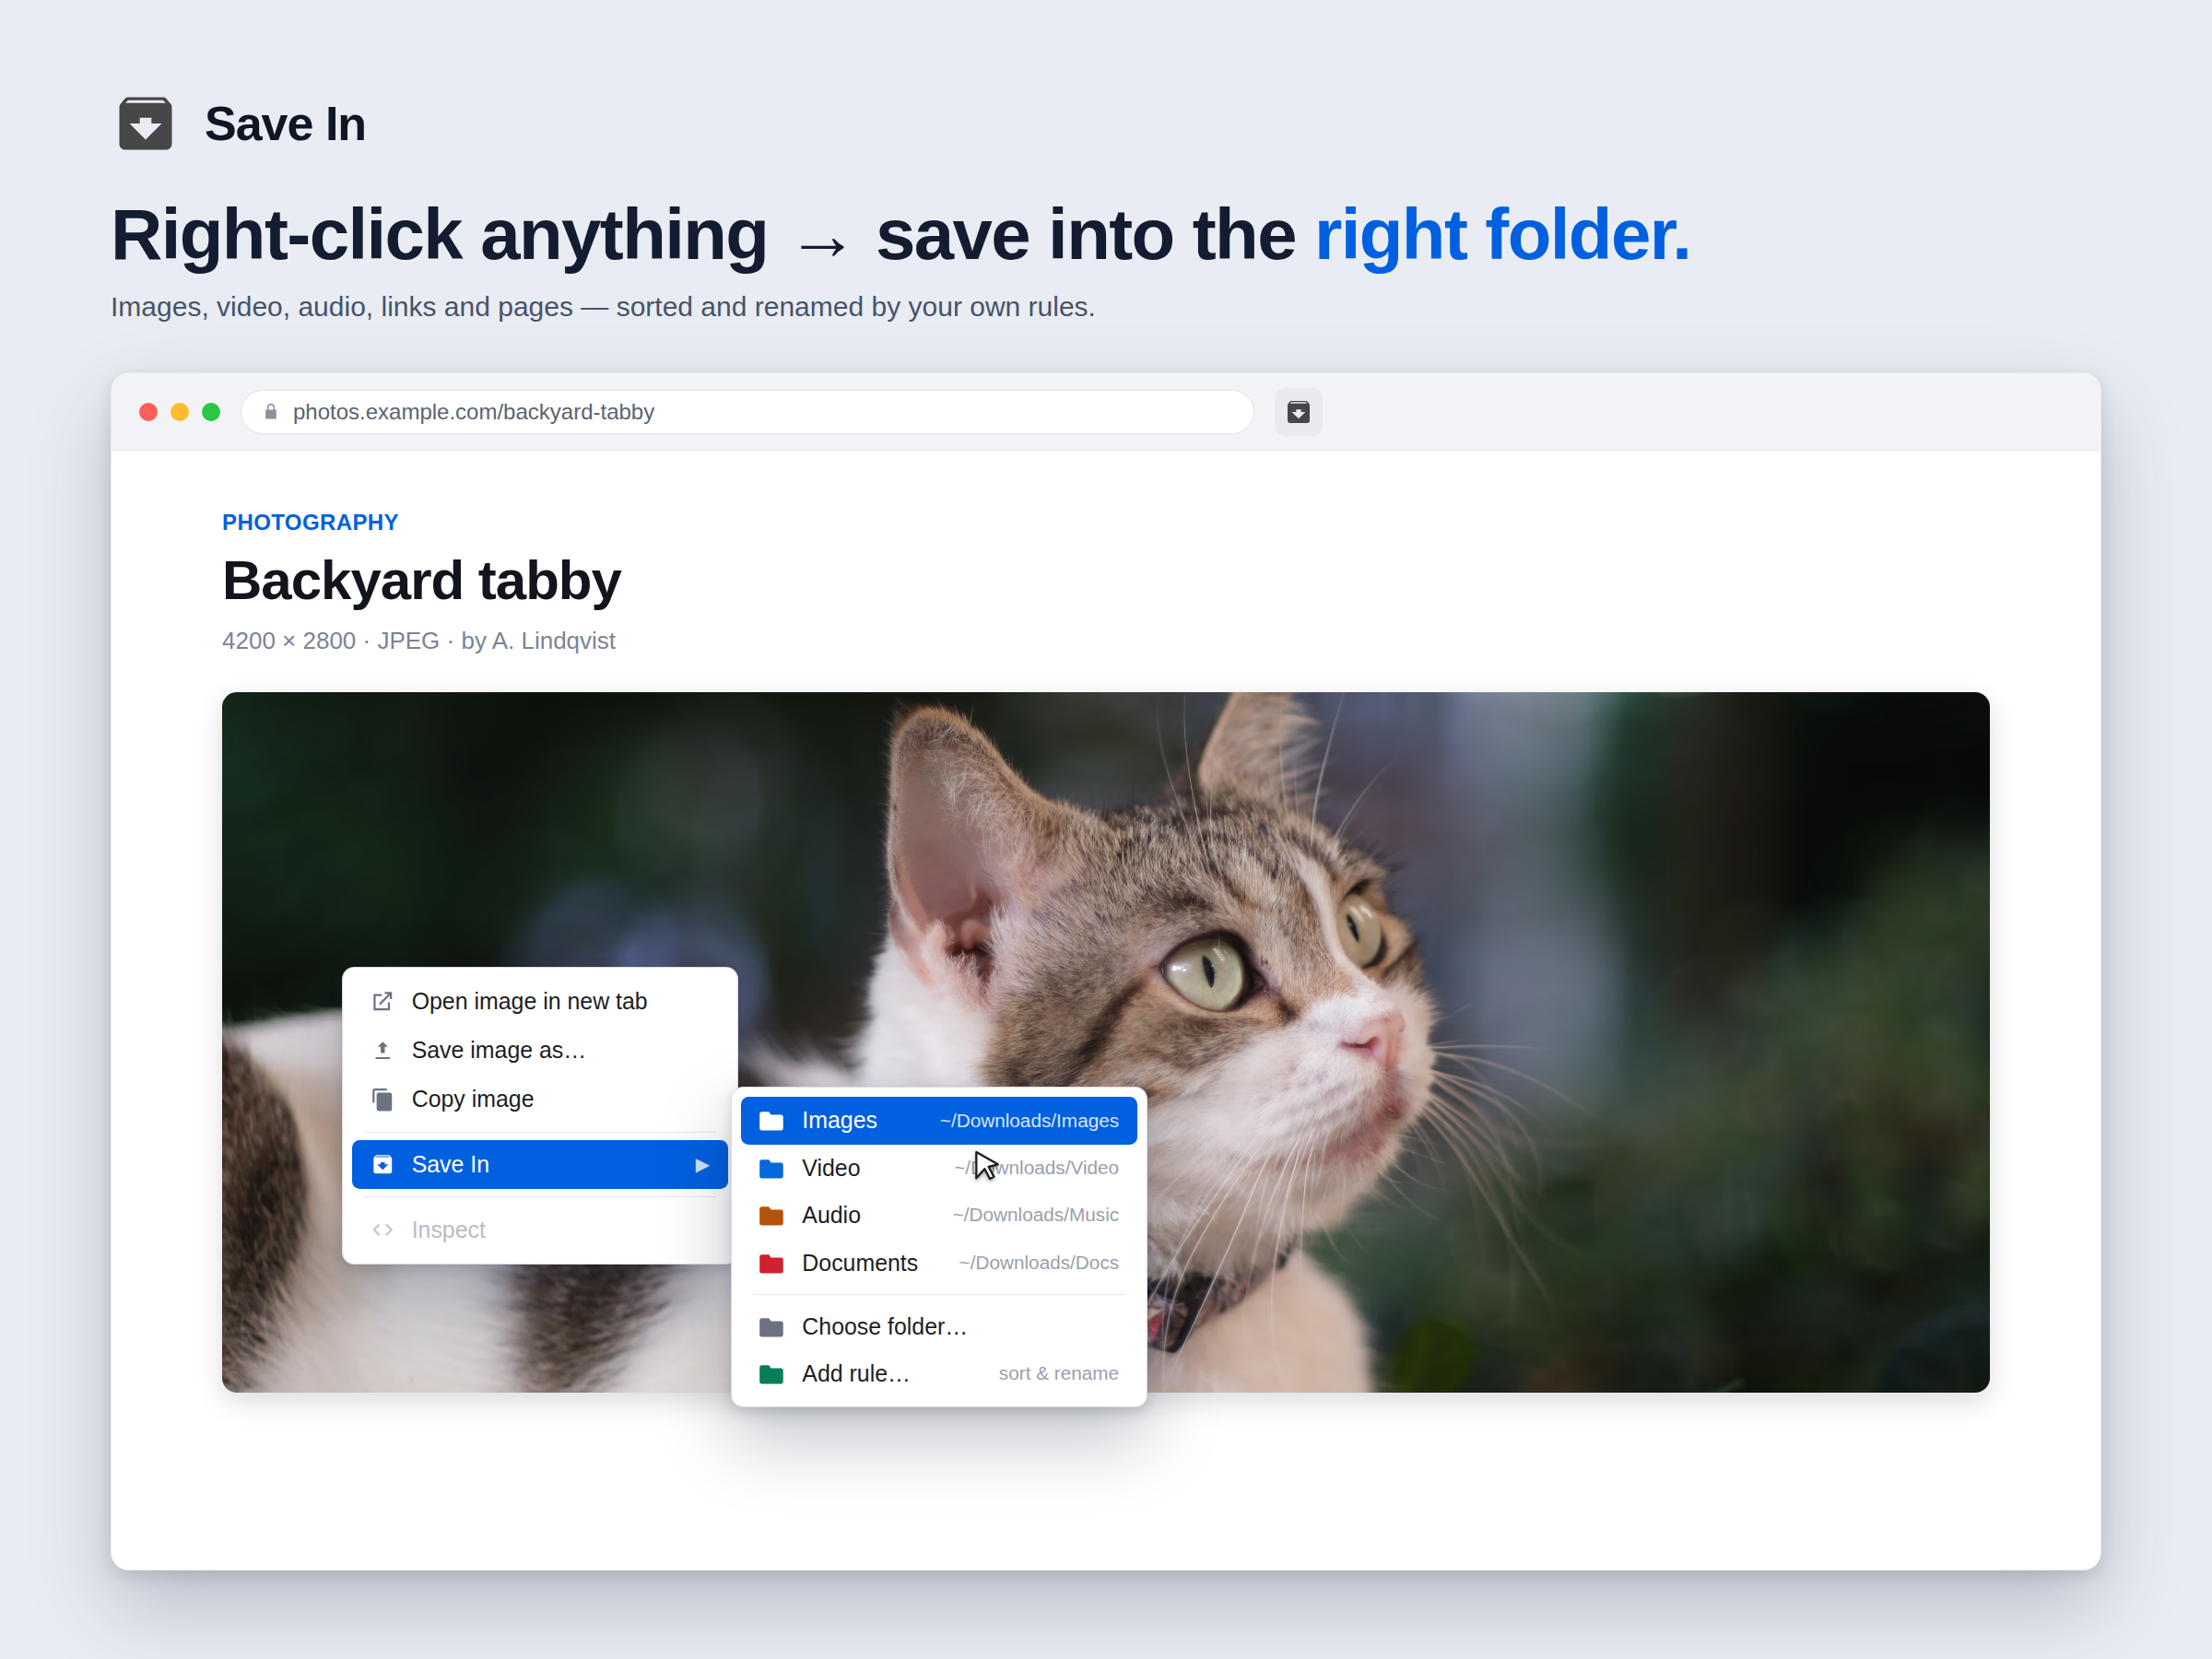
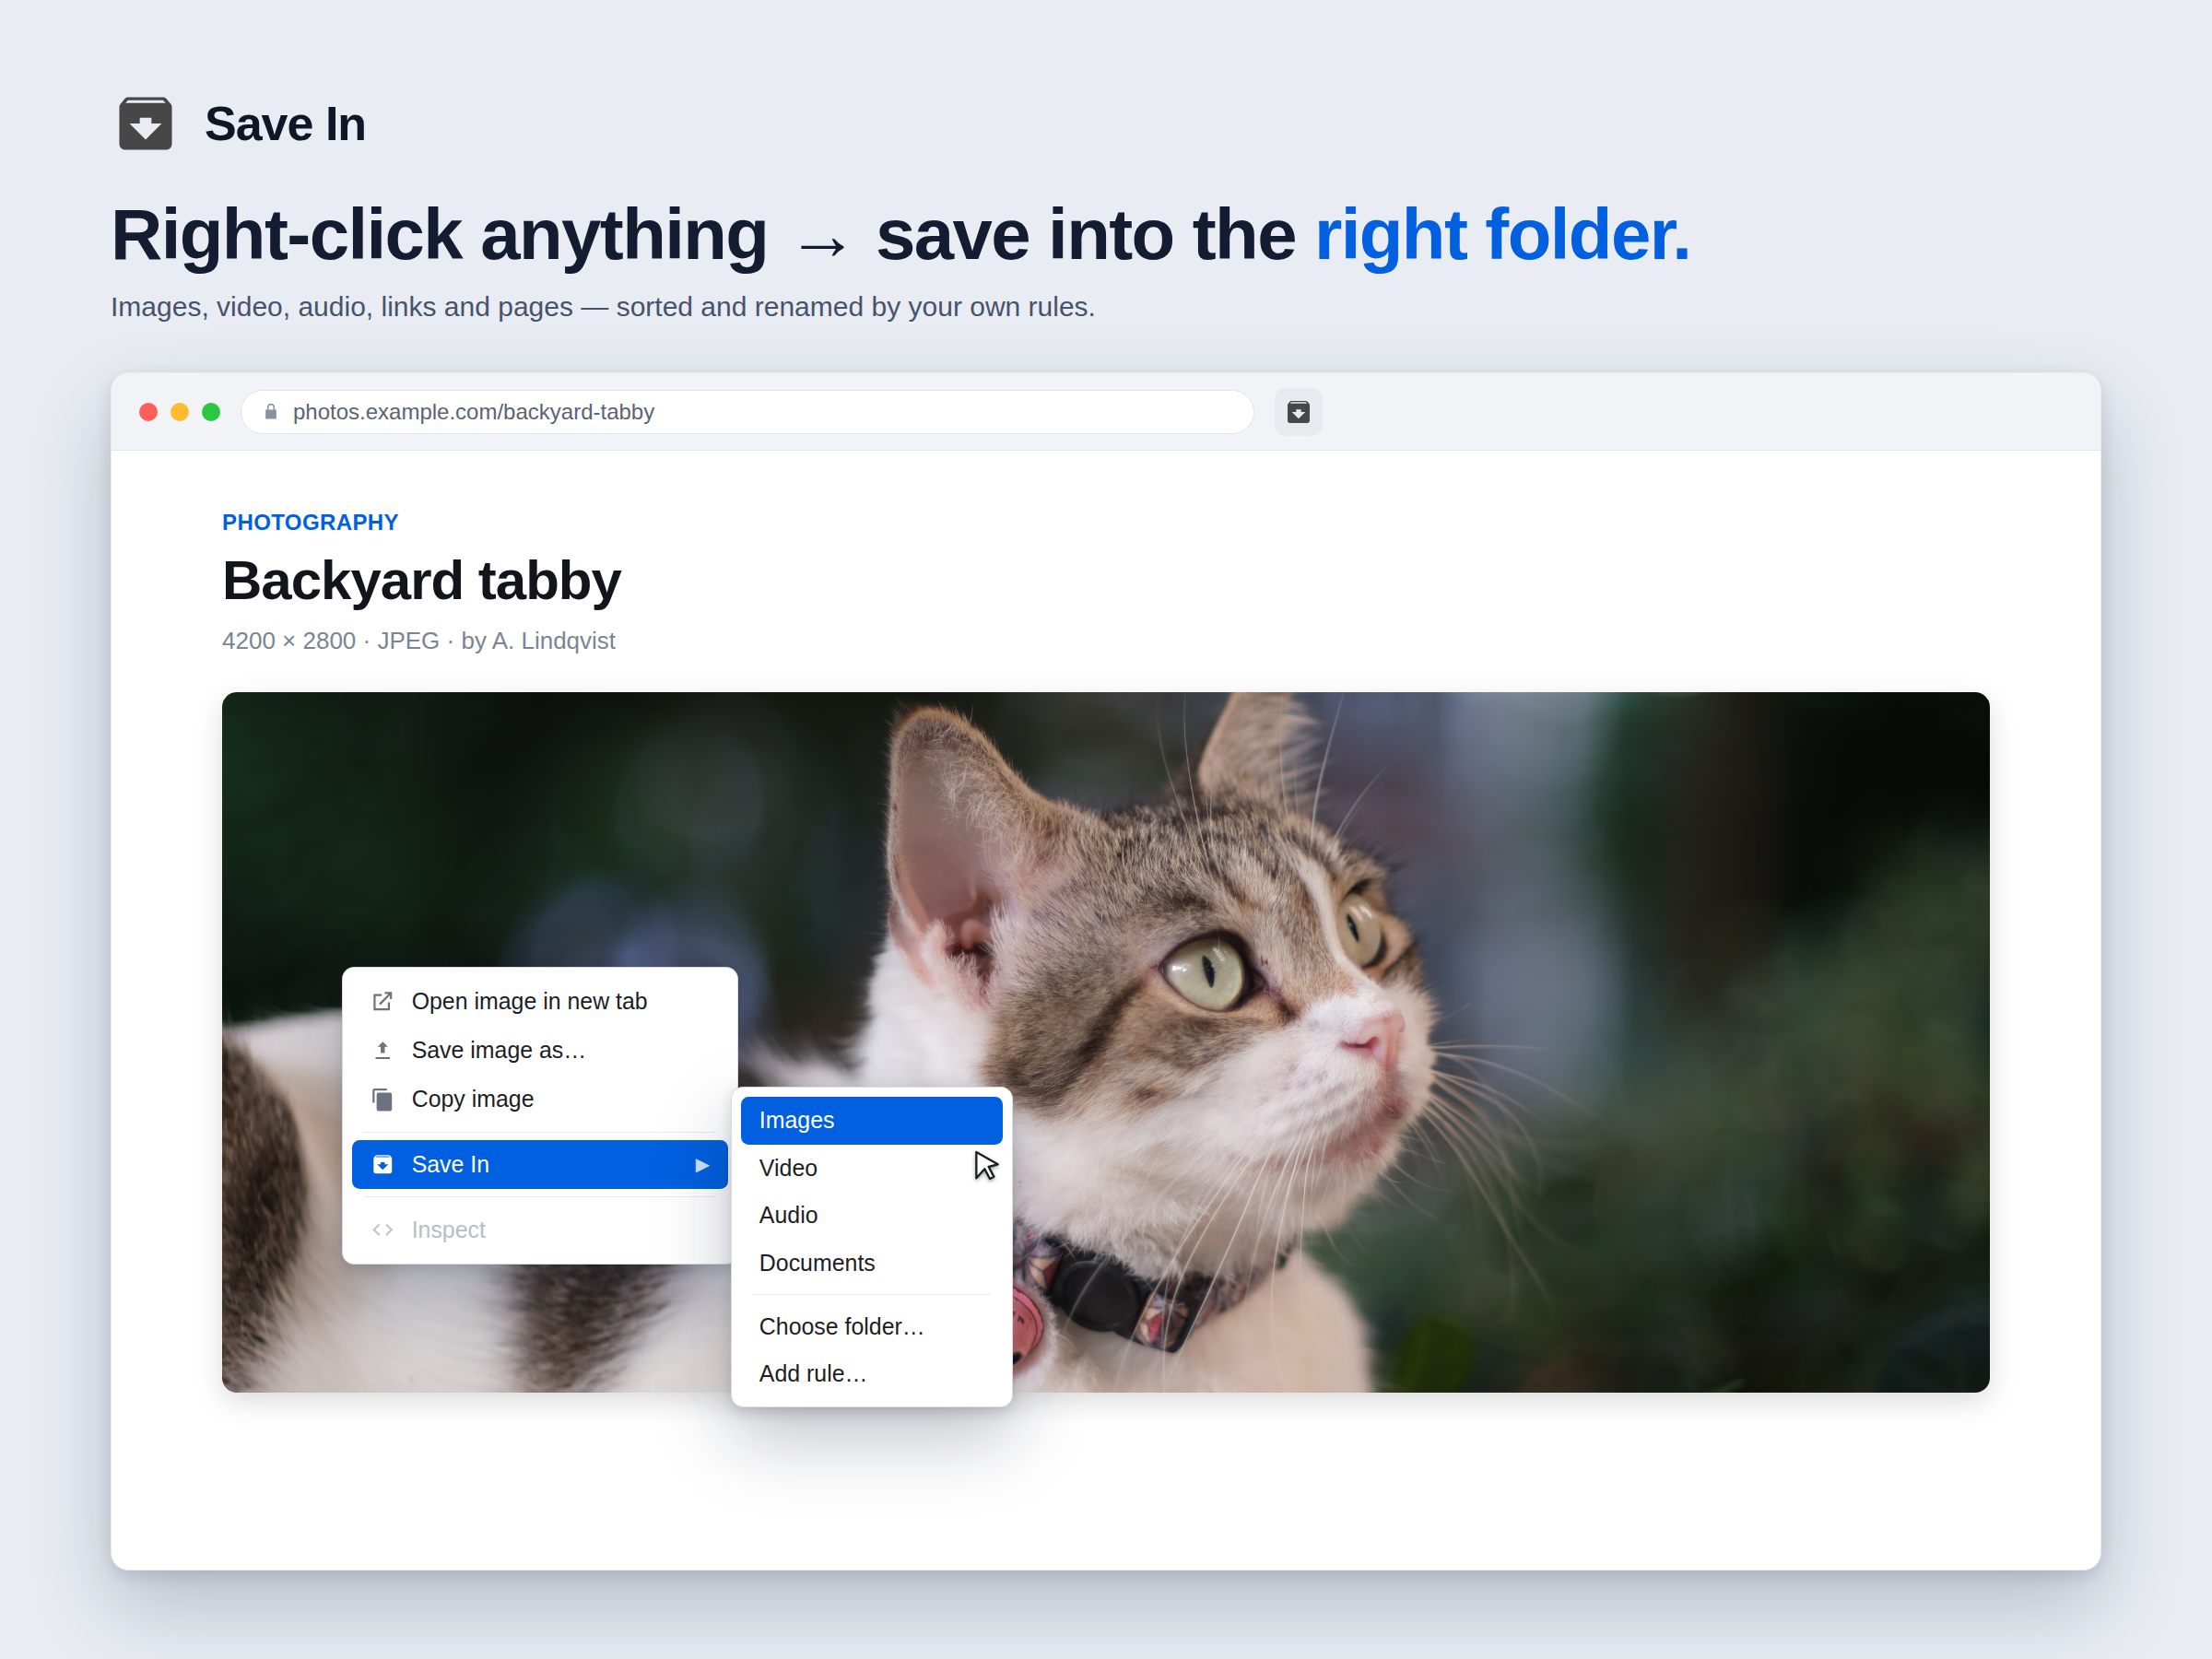
Draw the Save In submenu as plain folder names
Drop the invented folder icons and destination paths from the shared
context-menu art so the mock submenu matches a real Save In menu, which
lists configured folder names as plain items. Narrow the submenu boxes to
the shorter labels and regenerate the promo marquee and hero.

Changed region(s): [[0.3438, 0.6533, 0.5312, 0.8711]]

diff --git a/scripts/lib/context-menu-art.js b/scripts/lib/context-menu-art.js
@@ -35,10 +35,6 @@ const GLYPH = (() => {
 const glyph = (fill, cls = "") =>
   `<svg${cls ? ` class="${cls}"` : ""} viewBox="0 0 24 24"><path fill="${fill}" d="${GLYPH}"/></svg>`;
 
-/** A folder tab in one of the media-kind colours. @param {string} fill */
-const folder = (fill) =>
-  `<svg class="fico" viewBox="0 0 36 30"><path fill="${fill}" d="M3 3h10l3 4h14a3 3 0 0 1 3 3v16a3 3 0 0 1-3 3H3a3 3 0 0 1-3-3V6a3 3 0 0 1 3-3z"/></svg>`;
-
 // `scale` maps the 1x pixel sizes up for the larger canvases.
 /** @param {number} scale */
 const contextMenuCss = (scale) => {
@@ -50,12 +46,10 @@ const contextMenuCss = (scale) => {
   .mi{display:flex;align-items:center;gap:${s(11)};padding:${s(8)} ${s(12)};border-radius:${s(5)};
     white-space:nowrap;line-height:1}
   .mi .label{flex:1}.mi .arrow{color:#8a929e;font-size:${s(12)}}
-  .mi.on{background:${ACCENT};color:#fff}.mi.on .arrow{color:#cfe0ff}.mi.on .path{color:#d8e6ff}
+  .mi.on{background:${ACCENT};color:#fff}.mi.on .arrow{color:#cfe0ff}
   .mi.dim{color:#b7bcc6}
   .sep{height:1px;background:#e7e9ee;margin:${s(5)} ${s(8)}}
-  .ico{width:${s(16)};height:${s(16)};flex:none;fill:#6b7280}
-  .fico{width:${s(17)};height:${s(14)};flex:none}
-  .mi .path{margin-left:${s(8)};font-size:${s(12.5)};color:#99a0ad;font-weight:500}`;
+  .ico{width:${s(16)};height:${s(16)};flex:none;fill:#6b7280}`;
 };
 
 const primaryMenu = `
@@ -71,13 +65,13 @@ const primaryMenu = `
 
 const submenu = `
   <div class="menu submenu">
-    <div class="mi on">${folder("#fff")}<span class="label">Images</span><span class="path">~/Downloads/Images</span></div>
-    <div class="mi">${folder(KIND.video)}<span class="label">Video</span><span class="path">~/Downloads/Video</span></div>
-    <div class="mi">${folder(KIND.audio)}<span class="label">Audio</span><span class="path">~/Downloads/Music</span></div>
-    <div class="mi">${folder(KIND.document)}<span class="label">Documents</span><span class="path">~/Downloads/Docs</span></div>
+    <div class="mi on"><span class="label">Images</span></div>
+    <div class="mi"><span class="label">Video</span></div>
+    <div class="mi"><span class="label">Audio</span></div>
+    <div class="mi"><span class="label">Documents</span></div>
     <div class="sep"></div>
-    <div class="mi">${folder(KIND.other)}<span class="label">Choose folder&hellip;</span></div>
-    <div class="mi">${folder(KIND.stream)}<span class="label">Add rule&hellip;</span><span class="path">sort &amp; rename</span></div>
+    <div class="mi"><span class="label">Choose folder&hellip;</span></div>
+    <div class="mi"><span class="label">Add rule&hellip;</span></div>
   </div>`;
 
 /** @param {string} cls */
@@ -97,7 +91,7 @@ const menuOverlayDoc = () => `<!doctype html><html><head><meta charset="utf-8"><
   body{font-family:-apple-system,BlinkMacSystemFont,"Segoe UI",Roboto,"Helvetica Neue",Arial,sans-serif;position:relative}
   ${contextMenuCss(1)}
   .primary{top:18px;left:18px;width:258px;z-index:1}
-  .submenu{top:96px;left:268px;width:268px;z-index:2}
+  .submenu{top:96px;left:268px;width:186px;z-index:2}
   .cursor{position:absolute;top:132px;left:396px;width:22px;height:22px;z-index:3;filter:drop-shadow(0 1px 1px rgba(0,0,0,0.35))}
 </style></head><body>${primaryMenu}${submenu}${cursor("cursor")}</body></html>`;
 
@@ -106,7 +100,6 @@ module.exports = {
   KIND,
   GLYPH,
   glyph,
-  folder,
   cursor,
   contextMenuCss,
   primaryMenu,

diff --git a/scripts/generate-store-promo.js b/scripts/generate-store-promo.js
@@ -105,7 +105,7 @@ const marqueeTile = () =>
     .sub{margin-top:22px;font-size:21px;line-height:1.5;font-weight:500;color:#47536b;max-width:540px}
     .menuStage{position:relative;flex:1;height:100%}
     .primary{top:96px;left:96px;width:260px;z-index:1}
-    .submenu{top:176px;left:344px;width:268px;z-index:2}
+    .submenu{top:176px;left:344px;width:184px;z-index:2}
     ${contextMenuCss(1)}
     .cursor{position:absolute;top:214px;left:470px;width:22px;height:22px;z-index:3;filter:drop-shadow(0 1px 1px rgba(0,0,0,0.35))}`,
     1400,
@@ -167,7 +167,7 @@ const heroScreenshot = () =>
     .byline{font-size:26px;color:#7b8494;margin-top:16px}
     .photo{margin-top:40px;width:100%;height:760px;border-radius:16px;object-fit:cover;display:block;box-shadow:0 10px 30px rgba(0,0,0,0.14)}
     .primary{top:560px;left:250px;width:430px;z-index:2}
-    .submenu{top:690px;left:672px;width:452px;z-index:3}
+    .submenu{top:690px;left:672px;width:306px;z-index:3}
     ${contextMenuCss(1.66)}
     .cursor{position:absolute;top:756px;left:930px;width:40px;height:40px;z-index:4;filter:drop-shadow(0 2px 2px rgba(0,0,0,0.35))}`,
     2400,